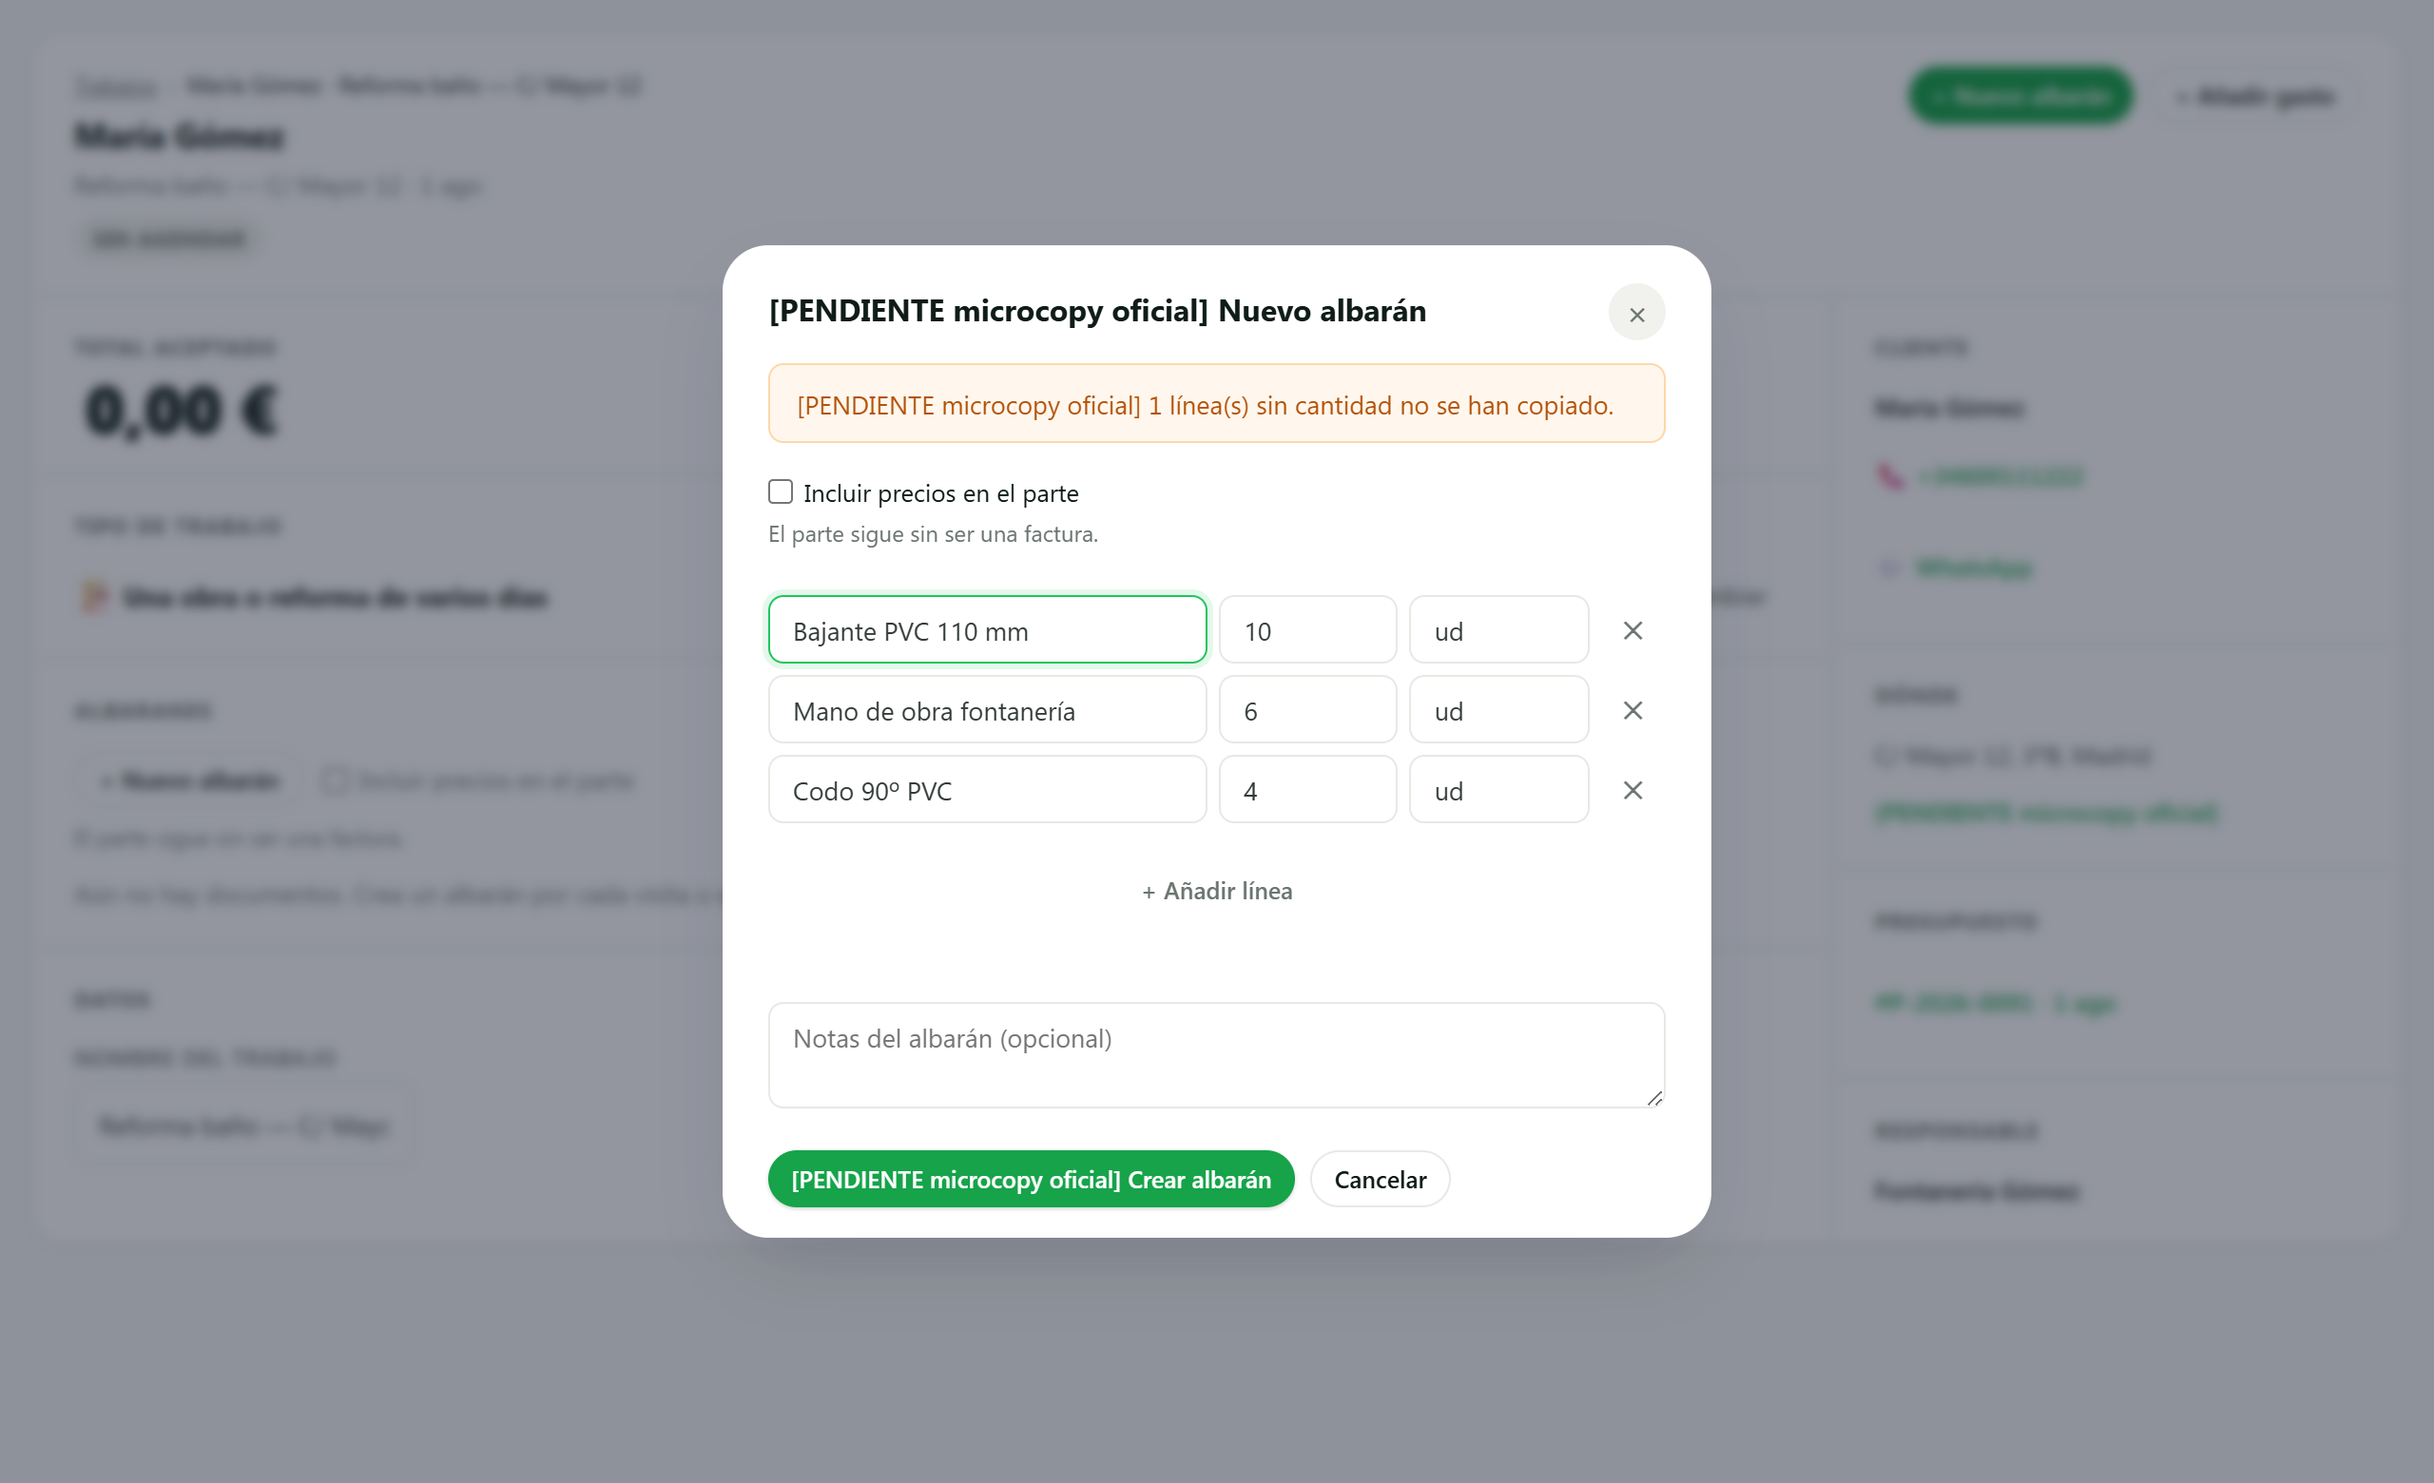
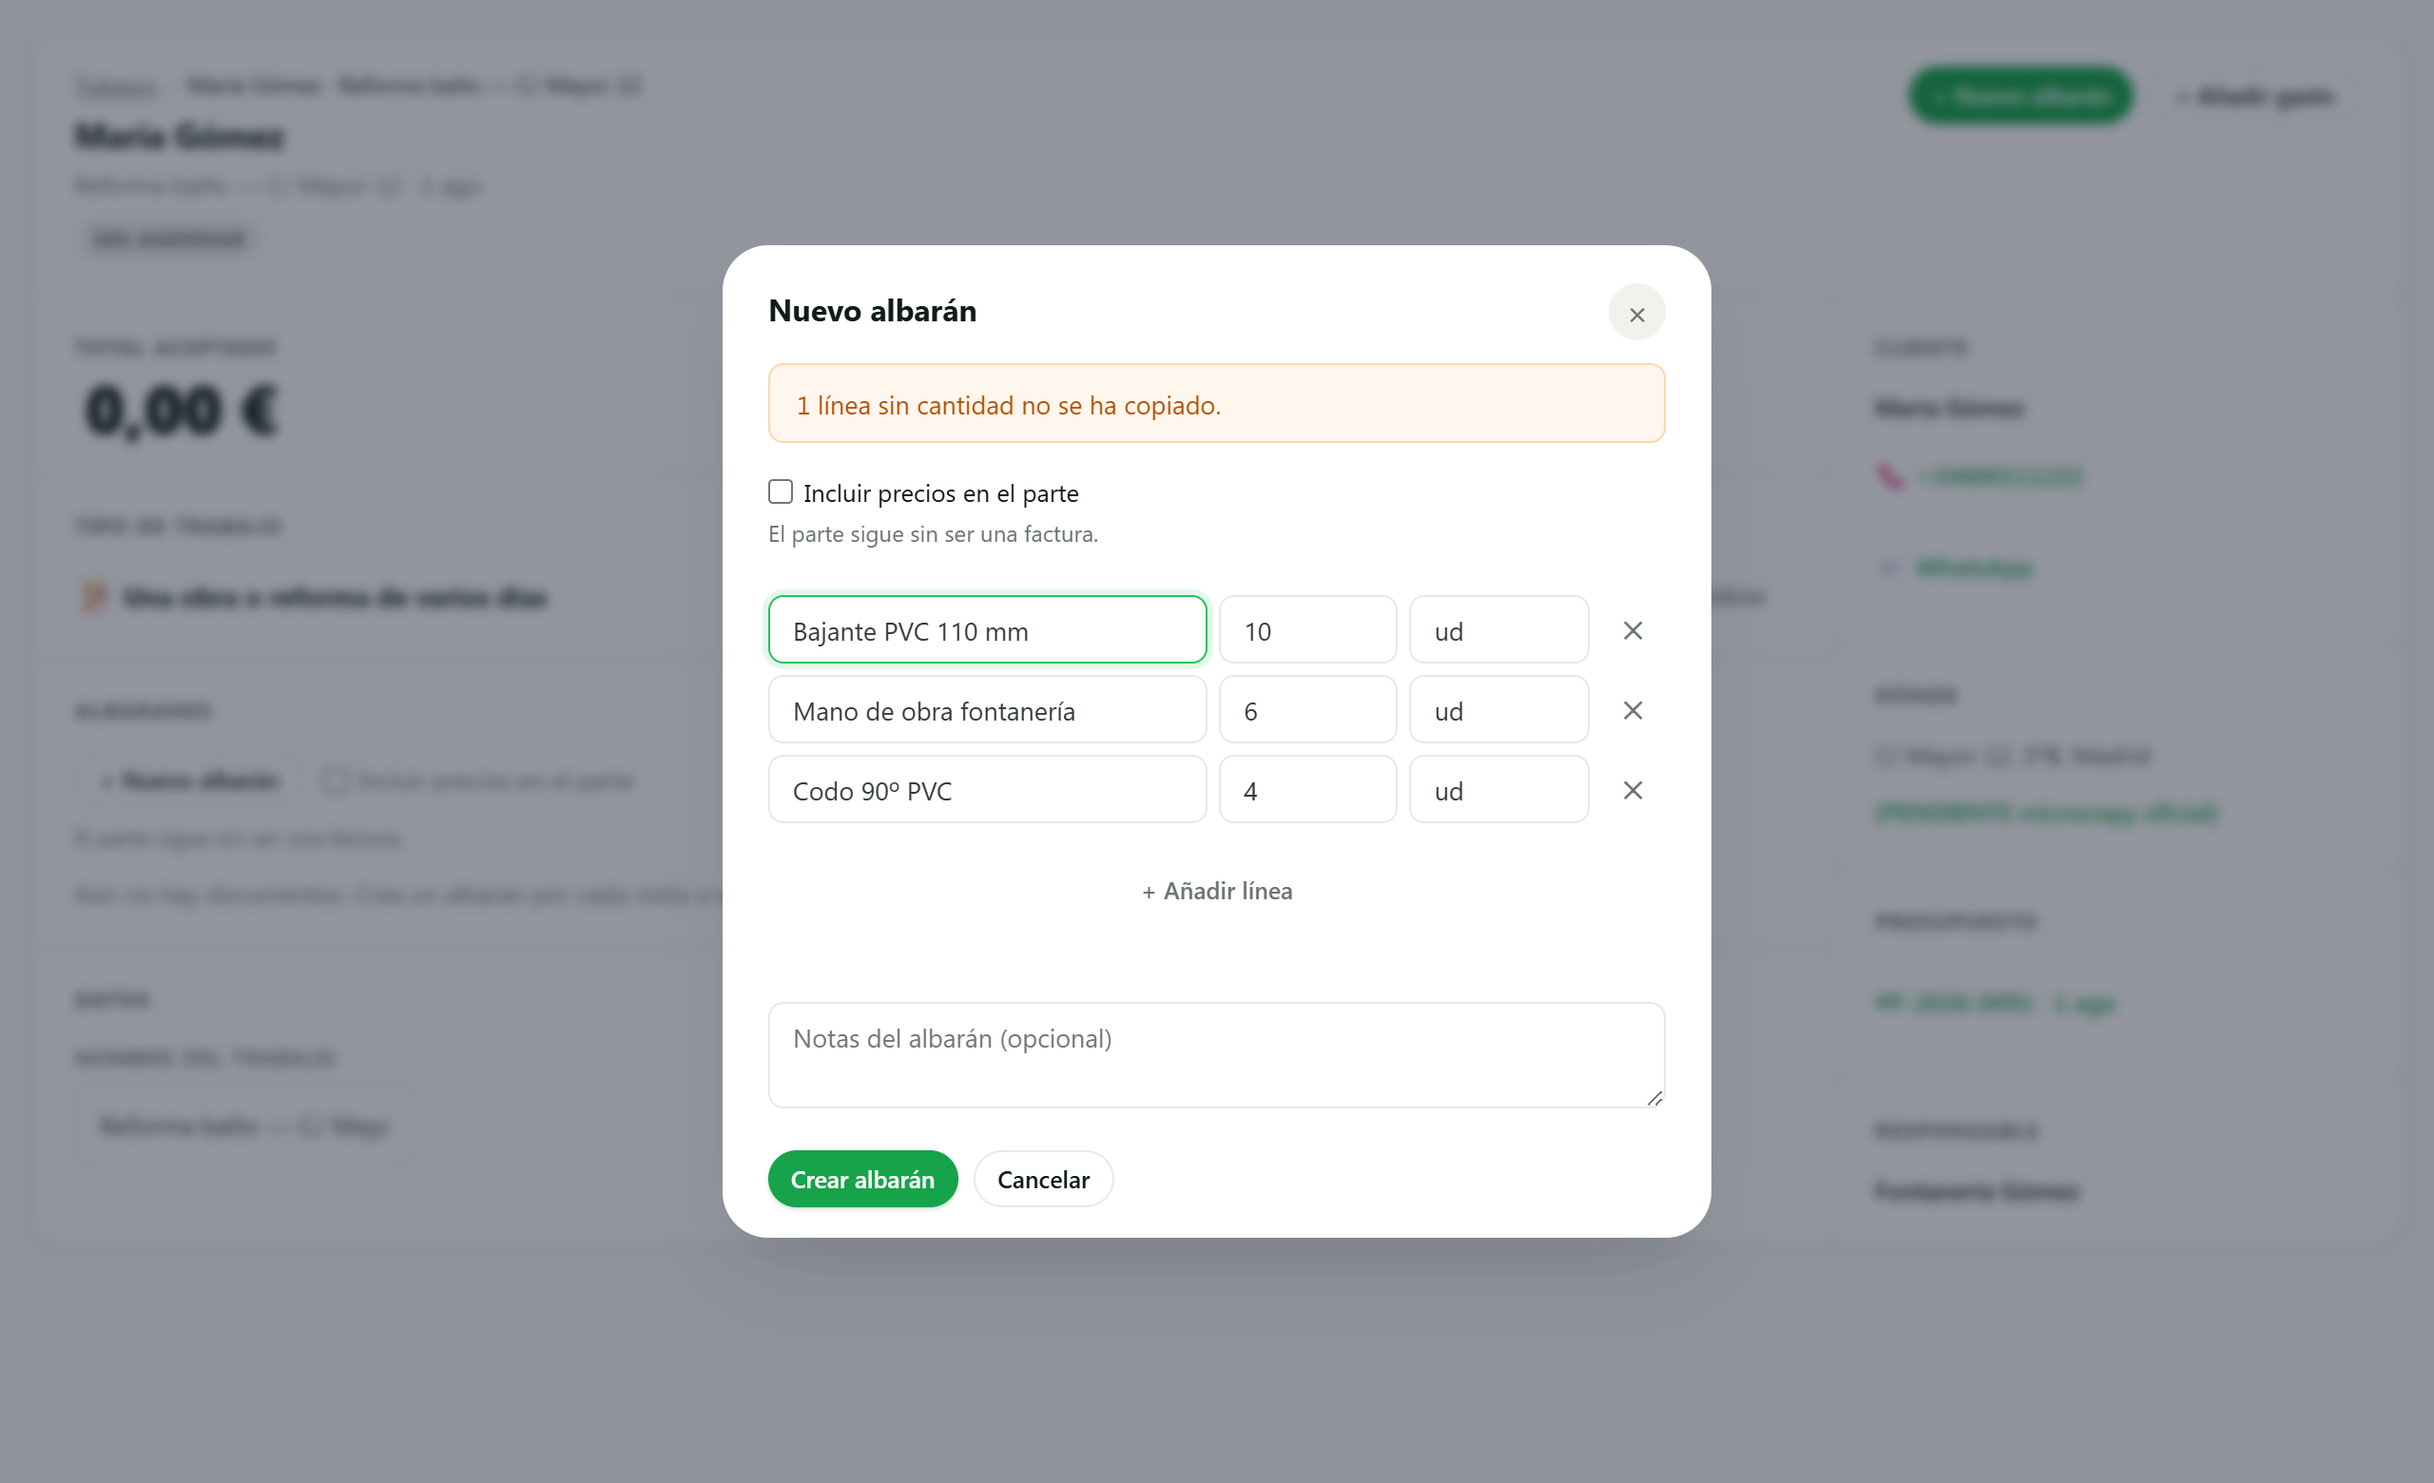
copy(SCRUM-303): microcopy APROBADA -- cuatro tal cual y tres con retoque
El fundador aprobo las siete ranuras el 5-ago-2026, asi que el marcador
[PENDIENTE microcopy oficial] deja de tener sentido y se retira.

LOS TRES RETOQUES, con su motivo:

  descartadas   "linea(s)" era abreviatura de programador en un aviso que lee un
                profesional en obra. Ahora resuelve singular y plural DE VERDAD --
                cambian el sustantivo Y el verbo, asi que se alterna la frase entera
                (patron de exportView.js): "1 linea sin cantidad no se ha copiado."
                frente a "3 lineas sin cantidad no se han copiado."
  valorado      "precios" aparecia dos veces en catorce palabras; lo arregla el
                pronombre sin perder nada.
  sin_presupuesto  "a la vista" dejaba dudando si existe y no se ve, o no existe. La
                segunda mitad dice ademas que va a pasar, que es lo que hace falta
                saber: "asi que empiezas de cero".

EL GUARD CAMBIA DE TRABAJO. Antes exigia el marcador; ahora compara ranura a ranura
contra el texto aprobado, porque retocar copy aprobada es una decision del fundador y
no un detalle de implementacion. Mas un test propio del plural que rechaza el "(s)".

Dos rojos nuevos: reescribir una ranura aprobada (dice el antes y el despues) y
devolver la abreviatura. Y un tercero NO PROVOCADO: al quitar el marcador desaparecio
`const ALB_PENDIENTE`, que era el extremo de uno de mis recortes, y mi escaner ciego
salto solo. El suelo de los dos extremos no era decorativo.
[…]

diff --git a/public/dashboard/js/jobDetailView.js b/public/dashboard/js/jobDetailView.js
@@ -175,15 +175,24 @@ const ALB_AVISO_TONO = {
   descartadas: 'warning',              // …y algo se ha quedado fuera (SCRUM-271)
 };
 
-const ALB_PENDIENTE = '[PENDIENTE microcopy oficial]';
+// MICROCOPY APROBADA por el fundador el 5-ago-2026 (regla 30). Ya NO lleva el marcador
+// `[PENDIENTE microcopy oficial]`: los siete textos están decididos y el guard los compara uno a
+// uno, así que reescribir uno «que suene mejor» sale rojo. Cambiarlos es cambiar copy aprobada.
 const ALB_CREAR_COPY = {
-  titulo: `${ALB_PENDIENTE} Nuevo albarán`,
-  guardar: `${ALB_PENDIENTE} Crear albarán`,
-  descartadas: (n) => `${ALB_PENDIENTE} ${n} línea(s) sin cantidad no se han copiado.`,
-  valorado: `${ALB_PENDIENTE} Con precios las líneas se escriben a mano: el presupuesto no trae precios.`,
-  sin_presupuesto: `${ALB_PENDIENTE} Este trabajo no tiene presupuesto a la vista.`,
-  presupuesto_ilegible: `${ALB_PENDIENTE} No se ha podido leer el presupuesto, así que no se ha rellenado nada. Puedes escribir las líneas a mano.`,
-  presupuesto_sin_lineas: `${ALB_PENDIENTE} El presupuesto no tiene ninguna línea que se pueda entregar.`,
+  titulo: 'Nuevo albarán',
+  guardar: 'Crear albarán',
+  // Singular y plural DE VERDAD: cambian el sustantivo y el verbo, así que se alterna la frase
+  // entera (patrón de `exportView.js`). «línea(s)» es abreviatura de programador, y esto lo lee
+  // un profesional en obra.
+  descartadas: (n) => (n === 1
+    ? '1 línea sin cantidad no se ha copiado.'
+    : `${n} líneas sin cantidad no se han copiado.`),
+  valorado: 'Con precios, las líneas se escriben a mano: el presupuesto no los trae.',
+  // «No tiene presupuesto» a secas dejaba dudando si existe y no se ve; la segunda mitad dice qué
+  // va a pasar, que es lo que hace falta saber.
+  sin_presupuesto: 'Este trabajo no tiene presupuesto, así que empiezas de cero.',
+  presupuesto_ilegible: 'No se ha podido leer el presupuesto, así que no se ha rellenado nada. Puedes escribir las líneas a mano.',
+  presupuesto_sin_lineas: 'El presupuesto no tiene ninguna línea que se pueda entregar.',
 };
 
 function decidirAperturaAlbaran({ modoValoracion, tieneQuote, quoteLeido, lineasQuote }) {

diff --git a/docs/master/SCRUM-303.md b/docs/master/SCRUM-303.md
@@ -2,7 +2,7 @@
 
 **Fecha:** 5-ago-2026 · **Carril:** C · **Gate:** sin gate, corre en `npm test`
 
-**Medido contra:** `origin/main` = `7ce53c31d9fc7d9a0093b13868beaddeeea65dcb` · 2026-08-05T16:07:45+01:00
+**Medido contra:** `origin/main` = `99d9b7004a5c520c114db7cb96ab6c7eac80e564` · 2026-08-05T16:17:40+01:00
 
 ## 🔴 La premisa del ticket estaba a medias, y se midió antes de construir nada
 
@@ -71,17 +71,29 @@ Es el defecto que SCRUM-366 documentó en este mismo fichero: **lo que no se pue
 reescribe distinto.** Ahora el alta se llama `abrirAltaAlbaran`, se nombra UNA vez, y los dos
 botones la llaman. Con guard de que siguen siendo exactamente dos.
 
-### ② SCRUM-367 se quedaba sin dato al pasar por la hoja
+### ② 🔴 SCRUM-367 ESTABA INCOMPLETO EN `main`, y se descubrió arreglando otra cosa
 
 `mkRow` pinta un input por campo y el guardado **reconstruye la línea desde los inputs**.
 `quoteLineIndex` no tiene input, así que se perdía. Mi propio cambio habría dejado sin dato a
 SCRUM-367 el mismo día que se mergeó.
 
-**Y destapa que la EDICIÓN ya lo perdía en `main`:** SCRUM-367 demostró que el backend lo CONSERVA
-(`validarLineas`), pero **nadie comprobó que el front lo MANDE** — y no lo hacía. Ahora el origen
-viaja en `r.dataset` y vuelve a salir al guardar, con la comprobación de dígitos **antes** de
-convertir (familia SCRUM-271: `Number('')` es `0`, y un origen ausente habría quedado atado a la
-primera partida del presupuesto, en silencio).
+Pero al medirlo salió lo gordo: **la EDICIÓN ya lo perdía en `main` antes de tocar nada**.
+
+> **SCRUM-367 probó que el backend lo CONSERVA; nadie probó que el front lo MANDE.**
+
+O sea que el ticket que se cerró una hora antes tenía **el mecanismo a medias: el campo sobrevive a
+`validarLineas` y se pierde en el viaje de vuelta.** Editar un albarán desde la hoja borraba el
+origen, sin error y sin que nada se pusiera rojo.
+
+**Es exactamente la forma de verde que llevamos toda la semana cazando, y esta vez la produjo un
+test que SÍ probaba algo — solo que no lo que hacía falta.** El test de 367 es correcto: mide la
+conservación en el validador, y ahí el campo sobrevive de verdad. Lo que nadie midió es el tramo
+anterior, donde el dato ni siquiera llega a salir del navegador.
+
+Ahora el origen viaja en `r.dataset` y vuelve a salir al guardar, con la comprobación de dígitos
+**antes** de convertir (familia SCRUM-271: `Number('')` es `0`, y un origen ausente habría quedado
+atado a la primera partida del presupuesto, en silencio). Con guard que **empareja los dos extremos
+derivando el nombre del que escribe**: renombrar uno solo sale rojo.
 
 ## Lo que la suite no vio y sí vio la captura
 
@@ -91,7 +103,7 @@ habría quedado verde y mudo. Los tests pasaban porque comprueban que el motivo 
 no que lleguen a la pantalla. El guard nuevo **deriva de la hoja de estilos** qué tonos quedan
 visibles, en vez de comparar contra una lista escrita a mano.
 
-## Los seis rojos
+## Los ocho rojos
 
 | # | Qué se rompe | Qué sale |
 |---|---|---|
@@ -101,8 +113,14 @@ visibles, en vez de comparar contra una lista escrita a mano.
 | 4 | El atajo de cabecera vuelve a crear por su cuenta | 🔴 «hay un ALTA fuera de `openAlbCrearSheet`» + «deberían ser DOS» |
 | 5 | El aviso vuelve a la clase pelada | 🔴 «el tono «silencioso» no está entre los que styles.css deja visibles» |
 | 6 | Quitar cada extremo del origen (a y b) | 🔴 «LA FILA NO GUARDA EL ORIGEN» · «se lee pero no se pone en la línea que se envía» |
+| 7 | Reescribir copy **aprobada** «para que suene mejor» | 🔴 «la ranura «sin_presupuesto» ya no dice lo aprobado», con el antes y el después |
+| 8 | Devolver la abreviatura `línea(s)` | 🔴 «el singular no concuerda… es de programador, y esto lo lee un profesional en obra» |
 
-Los seis con `node --check` limpio antes de creerse el rojo: un rojo de sintaxis no prueba nada.
+Los ocho con `node --check` limpio antes de creerse el rojo: un rojo de sintaxis no prueba nada.
+
+Y un noveno **no provocado**: al quitar el marcador desapareció `const ALB_PENDIENTE`, que era el
+extremo de uno de mis propios recortes, y **mi escáner ciego saltó solo**. Es la prueba de que el
+suelo de los dos extremos no era decorativo.
 
 ## Un guard ajeno saltó, y tenía toda la razón
 
@@ -119,15 +137,29 @@ tocar**, con sus cuatro criterios cerrados incluido que **no re-sincroniza nunca
 `job_without_quote` del backend · el detalle (C2) · el listado (C1) · la conversión a factura
 (A0.4) · `prisma/schema.prisma`.
 
-## Microcopy (regla 30)
+## Microcopy (regla 30) · APROBADA
 
-Las **7 ranuras** nuevas salen con `[PENDIENTE microcopy oficial]` **delante del texto**, no en vez
-de él: con el marcador solo, «ilegible» y «sin líneas» dirían LO MISMO y el suelo sería decorativo.
-El guard compara contra las constantes, nunca contra un literal, así que el día que se aprueben los
-textos sigue verde sin tocarlo (patrón de SCRUM-263).
+Las **7 ranuras** se entregaron con `[PENDIENTE microcopy oficial]` **delante del texto, no en vez
+de él**: con el marcador solo, «ilegible» y «sin líneas» habrían dicho LO MISMO y el suelo habría
+sido decorativo. **El fundador aprobó las siete el 5-ago-2026**, cuatro tal cual y tres con retoque,
+así que el marcador ya no está.
+
+| Ranura | Texto aprobado | |
+|---|---|---|
+| `titulo` | Nuevo albarán | tal cual |
+| `guardar` | Crear albarán | tal cual |
+| `presupuesto_ilegible` | No se ha podido leer el presupuesto, así que no se ha rellenado nada. Puedes escribir las líneas a mano. | tal cual |
+| `presupuesto_sin_lineas` | El presupuesto no tiene ninguna línea que se pueda entregar. | tal cual |
+| `descartadas` | 1 línea sin cantidad no se ha copiado. / N líneas … no se han copiado. | **retoque**: `línea(s)` era abreviatura de programador en un aviso que lee un profesional en obra |
+| `valorado` | Con precios, las líneas se escriben a mano: el presupuesto no los trae. | **retoque**: «precios» dos veces en catorce palabras |
+| `sin_presupuesto` | Este trabajo no tiene presupuesto, así que empiezas de cero. | **retoque**: «a la vista» dejaba dudando si existe y no se ve; la segunda mitad dice qué va a pasar |
+
+El guard cambió de trabajo: antes exigía el marcador, ahora **compara ranura a ranura contra el
+texto aprobado**, porque retocar copy aprobada es una decisión del fundador y no un detalle de
+implementación. Con su rojo y el del plural.
 
 ## Verificación
 
-- `npm run build` → **exit 0** · `npm test` → **exit 0**: **1730 tests · 1663 pass · 0 fail · 67
+- `npm run build` → **exit 0** · `npm test` → **exit 0**: **1744 tests · 1677 pass · 0 fail · 67
   skipped**, contra el `main` resultante del rebase.
 - Capturas AB6 y sus huecos declarados: `docs/capturas/scrum-303/README.md`.

diff --git a/docs/capturas/scrum-303/README.md b/docs/capturas/scrum-303/README.md
@@ -1,6 +1,6 @@
 # SCRUM-303 (C4) · capturas de la hoja de crear albarán (AB6)
 
-**Medido contra:** `origin/main` = `7ce53c31d9fc7d9a0093b13868beaddeeea65dcb` · 2026-08-05T16:07:45+01:00
+**Medido contra:** `origin/main` = `99d9b7004a5c520c114db7cb96ab6c7eac80e564` · 2026-08-05T16:17:40+01:00
 
 Producidas con un **banco aislado** (puppeteer-core sobre el Edge instalado + servidor estático
 efímero sirviendo `public/`). Se cargan **los 41 scripts que carga `dashboard/index.html`, en su
@@ -32,8 +32,8 @@ modificadores quedan visibles.
 ## El caso bueno — 390 px (iPhone estándar)
 
 La hoja se abre **ya rellena** con las 3 líneas aprovechables del presupuesto, y avisa de la 4ª
-(cantidad 0) que no se copió. **Todavía no existe ningún albarán**: si se cierra aquí, no queda
-documento ni hueco en la serie.
+(cantidad 0) que no se copió — en **singular correcto**: «1 línea sin cantidad no se ha copiado.»
+**Todavía no existe ningún albarán**: si se cierra aquí, no queda documento ni hueco en la serie.
 
 ![bueno 390](scrum303-sheet-bueno-390.png)
 
@@ -63,7 +63,7 @@ vacía.
 | Focus visible | Sí — anillo en el primer campo, visible en las cuatro capturas |
 | Targets ≥44 px | Heredados del editor de líneas, que ya cumplía |
 | Estados empty / error | **Los dos casos vacíos son el corazón del ticket** y están capturados; el error del guardado usa el banner propio del sheet (`.alert error`), que ya existía |
-| Textos largos | El microcopy va con el marcador `[PENDIENTE microcopy oficial]` (29 caracteres) **delante del texto**, así que lo capturado es el caso PEOR de longitud: el aprobado será más corto |
+| Textos largos | **Microcopy APROBADA** (5-ago-2026): las capturas son las del texto definitivo, sin marcador. La tanda anterior llevaba `[PENDIENTE microcopy oficial]` delante (29 caracteres más por ranura) y **también entraba**, así que el caso peor de longitud está probado |
 | Contraste AA | Tonos `info`/`warning` de `styles.css`, sin colores inventados |
 
 ### Huecos declarados
